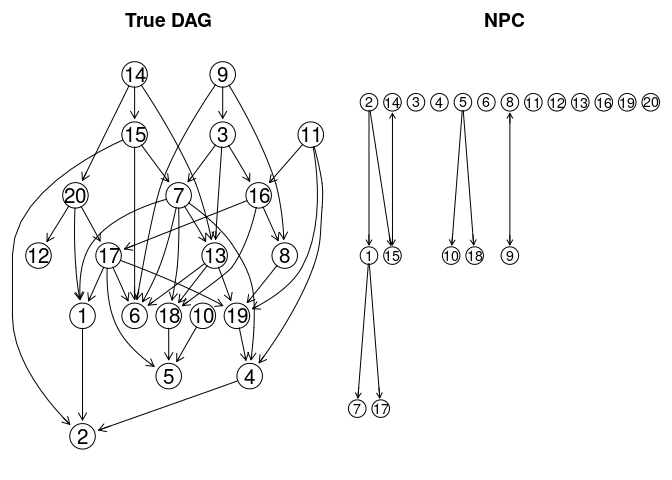
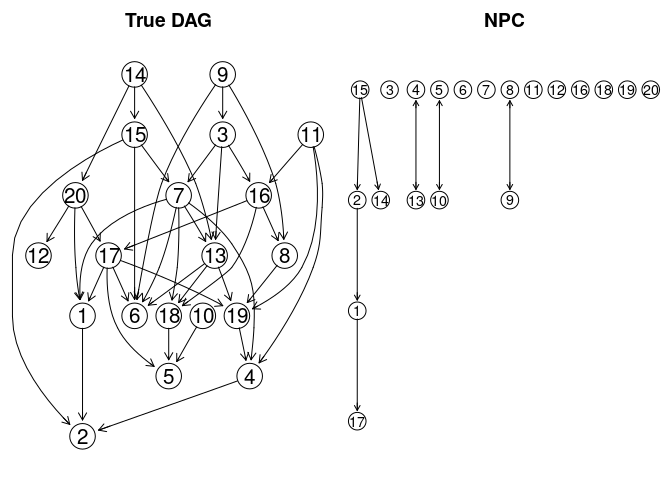
update

diff --git a/Demo/Demo.md b/Demo/Demo.md
@@ -37,11 +37,12 @@ trueDAG <- randDAG(n = n, d = 4, method = "er", wFUN = list(mywFUN))
 # Sample size = 500
 N <- 500
 hidden_data <- rmvDAG2(N, trueDAG)
+scaled_data <- t(t(hidden_data) - apply(hidden_data,2,mean))
 truecov <- trueCov(trueDAG)
 D <- diag(sqrt(diag(truecov)))
 D.inv <- chol2inv(chol(D))
 trueSigma <- D.inv %*% truecov %*% D.inv
-scaled_data <- t(D.inv %*% t(hidden_data))
+scaled_data <- t(D.inv %*% t(scaled_data))
 
 # Convert the Gaussian dataset into an ordinal dataset
 ordinal_data <- convertToOrdinal(scaled_data, exp_levels = 4,concent_param = 2)
@@ -75,18 +76,18 @@ comparePatterns(NPCfit,trueDAG) # hard version
 ```
 
     ##       SHD        TP        FP        TN        FN Precision       TPR     FPR_N 
-    ##     31.50      7.50      0.50    151.00     31.00      0.94      0.19      0.00 
+    ##     37.50      2.50      4.50    150.00     33.00      0.36      0.06      0.03 
     ##     FPR_P 
-    ##      0.01
+    ##      0.12
 
 ``` r
 comparePatterns(NPCfit,trueDAG,hardP2P = FALSE) # soft version
 ```
 
     ##       SHD        TP        FP        TN        FN Precision       TPR     FPR_N 
-    ##     31.50      7.50      0.50    151.00     31.00      0.94      0.19      0.00 
+    ##     37.50      2.50      4.50    150.00     33.00      0.36      0.06      0.03 
     ##     FPR_P 
-    ##      0.01
+    ##      0.12
 
 -   OPC (Musella, 2013)
 
@@ -136,7 +137,7 @@ comparePatterns(GPCfit,trueDAG) # hard version
 ```
 
     ##       SHD        TP        FP        TN        FN Precision       TPR     FPR_N 
-    ##     29.00     14.00     21.00    147.00      8.00      0.40      0.36      0.14 
+    ##     30.00     13.00     21.00    147.00      9.00      0.38      0.33      0.14 
     ##     FPR_P 
     ##      0.54
 
@@ -145,7 +146,7 @@ comparePatterns(GPCfit,trueDAG,hardP2P = FALSE) # soft version
 ```
 
     ##       SHD        TP        FP        TN        FN Precision       TPR     FPR_N 
-    ##     29.00     14.00     21.00    147.00      8.00      0.40      0.36      0.14 
+    ##     30.00     13.00     21.00    147.00      9.00      0.38      0.33      0.14 
     ##     FPR_P 
     ##      0.54
 
